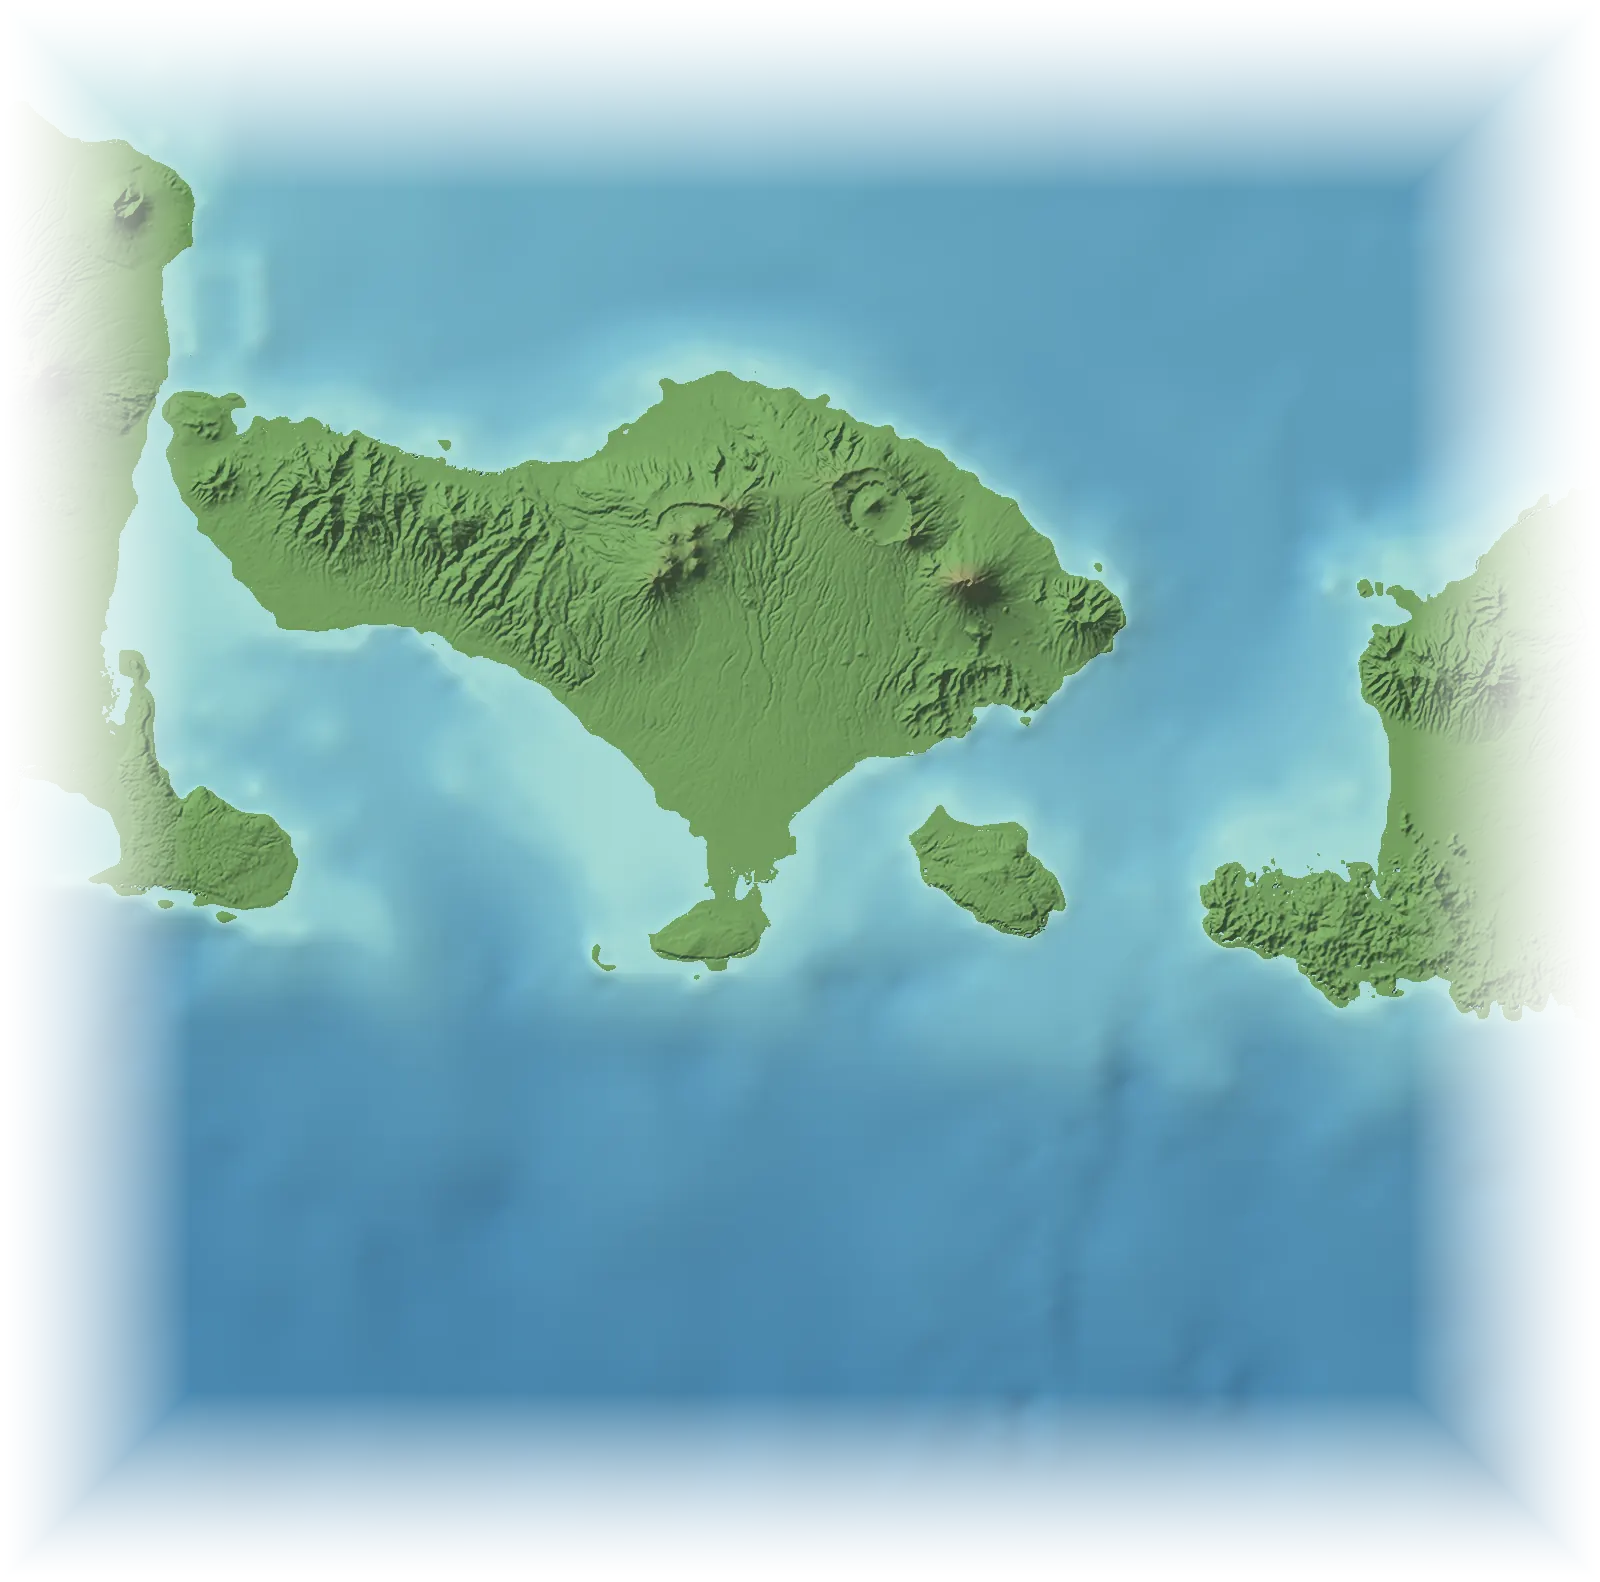
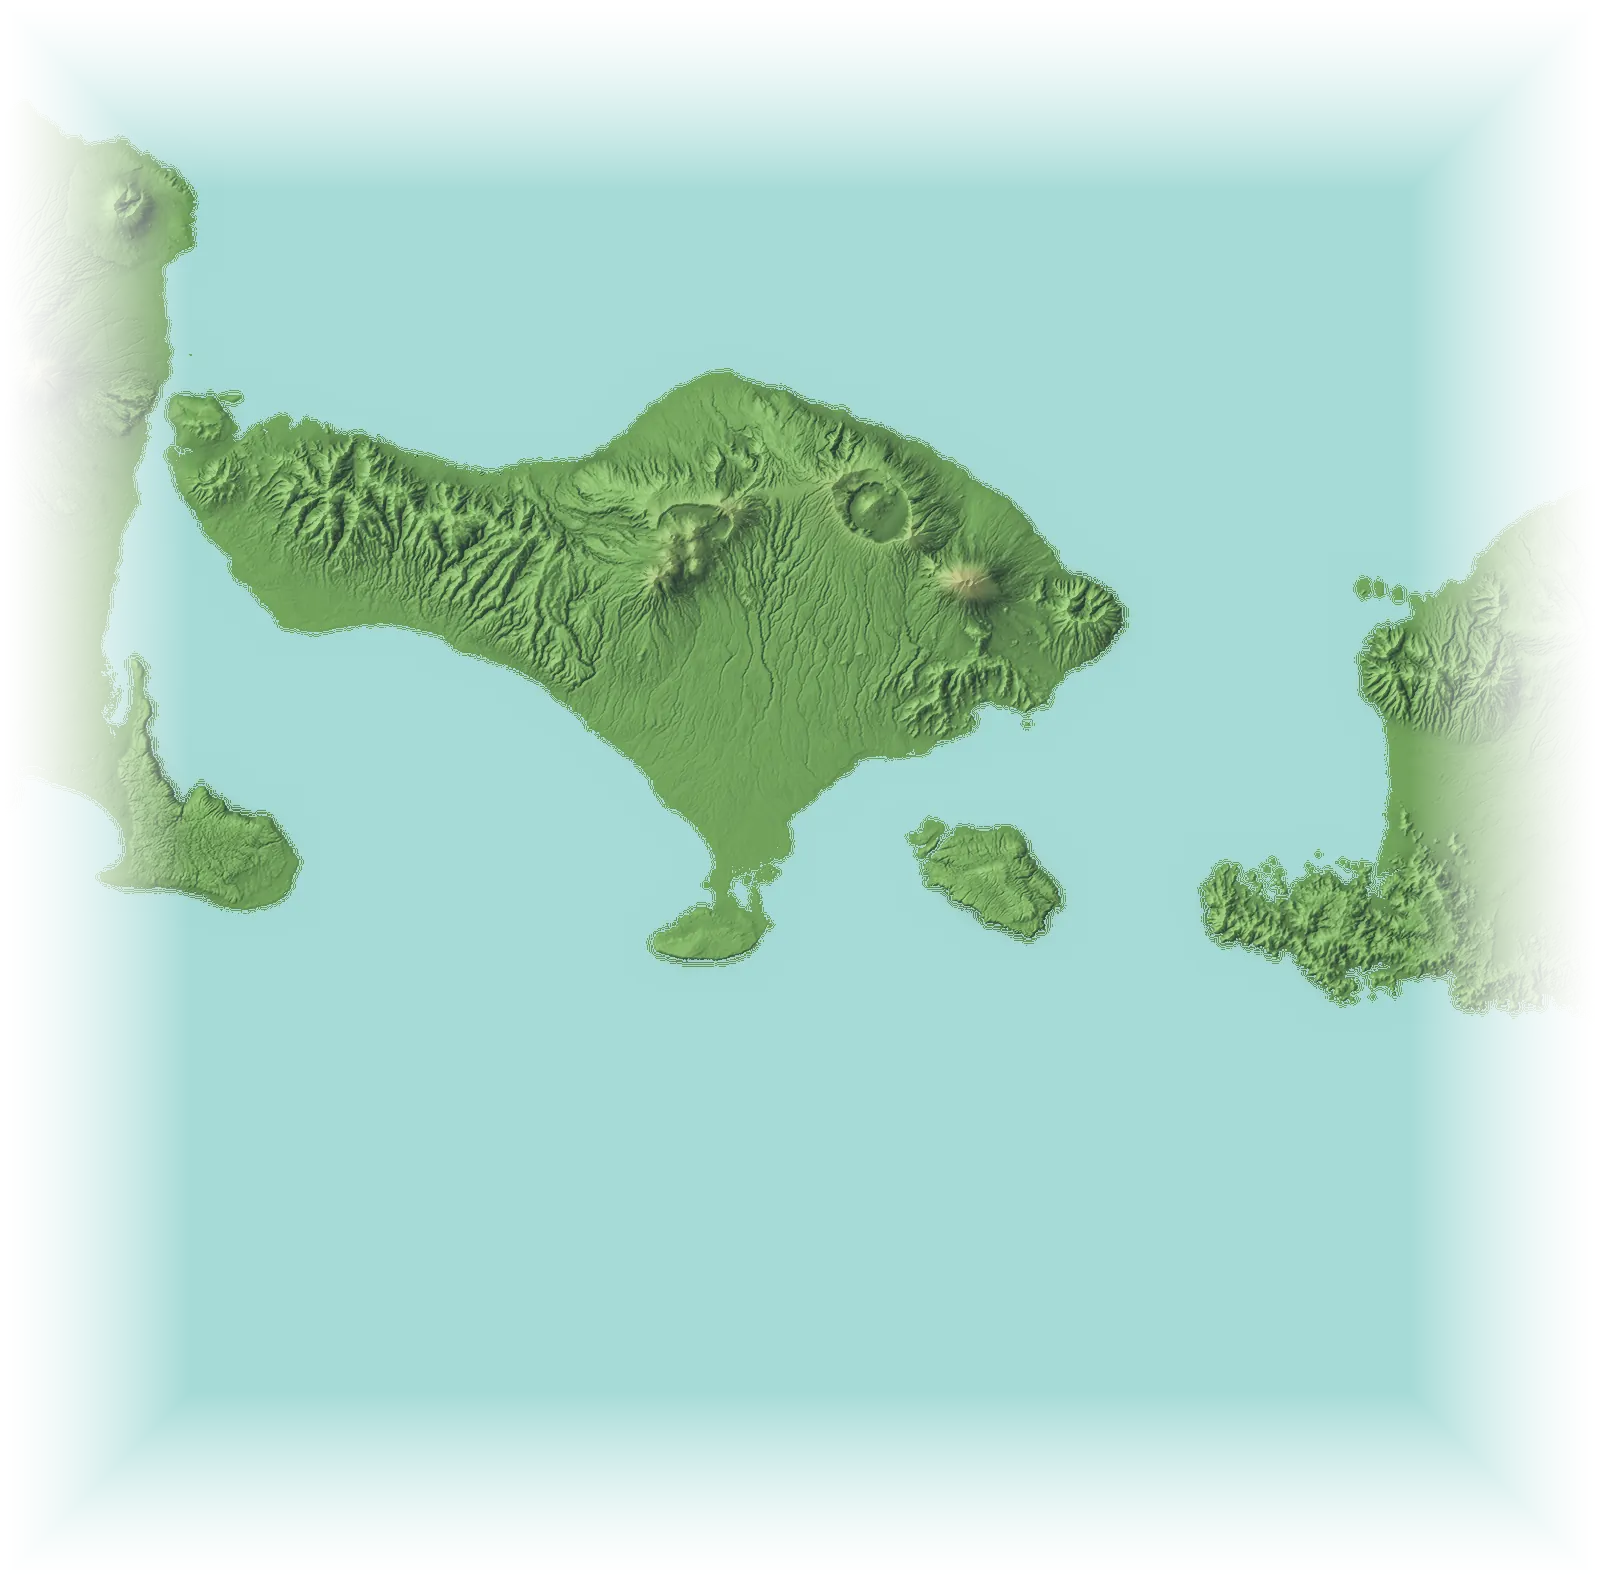
Richer, more natural map: sculpted relief, real clouds, atmosphere
- Relief layers re-lit with a key + fill light, local-relief shading
  (ridges catch light, valleys in soft shadow), warm highlights and
  cool shadows
- Noise-generated cumulus and high wispy clouds, drifting with parallax
  and casting soft shadows on the land
- Sun shimmer on the sea, warm light, haze and vignette
- Tilt-shift blur at the top and bottom when zoomed into a place
- Lakes have soft natural shores instead of outlined ovals
- Caching: html/js/css/json and map data always revalidate, and
  versioned script/style URLs, so phones stop showing old copies

Claude-Session: https://claude.ai/code/session_01KVdNw979WxCLGLb6ytawBs

diff --git a/public/map.js b/public/map.js
@@ -140,17 +140,33 @@ function drawGlyphs(list,lo,hi,mul=1){
 }
 
 /* ---------- clouds ---------- */
-const SPR=[0,1,2].map(i=>{const c=document.createElement('canvas');c.width=c.height=256;const g=c.getContext('2d');seed=31+i*13;
-  for(let n=0;n<14;n++){const x=60+rnd()*136,y=96+rnd()*70,r=26+rnd()*46;const gr=g.createRadialGradient(x,y,0,x,y,r);
-    gr.addColorStop(0,'rgba(255,255,255,.95)');gr.addColorStop(.55,'rgba(255,255,255,.55)');gr.addColorStop(1,'rgba(255,255,255,0)');g.fillStyle=gr;g.beginPath();g.arc(x,y,r,0,7);g.fill()}
-  g.globalCompositeOperation='source-atop';const sh=g.createLinearGradient(0,90,0,200);sh.addColorStop(0,'rgba(0,0,0,0)');sh.addColorStop(1,'rgba(120,140,170,.35)');g.fillStyle=sh;g.fillRect(0,0,256,256);return c});
+function cloudSprite(kind,sd){
+  const N=256,c=document.createElement('canvas');c.width=c.height=N;const g=c.getContext('2d'),im=g.createImageData(N,N),d=im.data;
+  seed=sd;const P=new Float32Array(64*64);for(let i=0;i<P.length;i++)P[i]=rnd();
+  const vn=(x,y)=>{x=((x%64)+64)%64;y=((y%64)+64)%64;const X=Math.floor(x),Y=Math.floor(y),fx=x-X,fy=y-Y,u=fx*fx*(3-2*fx),v=fy*fy*(3-2*fy),X1=(X+1)%64,Y1=(Y+1)%64;
+    return (P[Y*64+X]*(1-u)+P[Y*64+X1]*u)*(1-v)+(P[Y1*64+X]*(1-u)+P[Y1*64+X1]*u)*v};
+  const wisp=kind==='wisp';
+  const ss=(e0,e1,v)=>{const t=Math.max(0,Math.min(1,(v-e0)/(e1-e0)));return t*t*(3-2*t)};
+  for(let j=0;j<N;j++)for(let i=0;i<N;i++){
+    const nx=(i-N/2)/(N/2),ny=(j-N/2)/(N/2)*(wisp?2.2:1.35),r=Math.hypot(nx,ny);if(r>=1)continue;
+    const fall=1-Math.pow(r,wisp?1.3:1.7);
+    // broad shape first, finer billows on top; wisps are noise stretched into long streaks
+    let f=0,a=.5,fr=wisp?3:2.2;for(let o=0;o<5;o++){f+=a*vn(i/N*fr*(wisp?.18:1)+o*7.3,j/N*fr+o*3.1);fr*=2.05;a*=.5}
+    const v=wisp?ss(.32,.95,fall*.55+(f-.5)*2.6)*Math.pow(fall,.7):ss(.28,.72,fall*.95+(f-.5)*1.1);if(v<=0)continue;
+    const top=wisp?1:1-.22*Math.max(0,ny/1.35+.15);           // sunlit tops, soft grey undersides
+    const k=(j*N+i)*4;d[k]=255*top;d[k+1]=255*top;d[k+2]=Math.min(255,266*top);d[k+3]=v*(wisp?160:245)}
+  g.putImageData(im,0,0);
+  const s2=document.createElement('canvas');s2.width=s2.height=N;const h=s2.getContext('2d');h.drawImage(c,0,0);h.globalCompositeOperation='source-in';h.fillStyle='rgb(28,40,58)';h.fillRect(0,0,N,N);
+  c.shadow=s2;return c}
+const WISP=cloudSprite('wisp',12),SPR=[cloudSprite('cum',31),cloudSprite('cum',57),cloudSprite('cum',83),WISP,WISP];
 seed=99;
 const CLOUDS=[];
-for(let i=0;i<80;i++)CLOUDS.push({x:-180+rnd()*360,y:-(-50+rnd()*115),s:4.5+rnd()*6,i:i%3,v:.02+rnd()*.04,g:true});
+for(let i=0;i<42;i++)CLOUDS.push({x:-180+rnd()*360,y:-(-50+rnd()*115),s:7+rnd()*7,i:i%3,v:.02+rnd()*.03,g:true,p:1});
+for(let i=0;i<18;i++)CLOUDS.push({x:-180+rnd()*360,y:-(-45+rnd()*105),s:12+rnd()*9,i:3+i%2,v:.04+rnd()*.04,g:true,p:1.18,wisp:true});
 for(const d of DEST){const b=routeBox(R[d.id]);for(let i=0;i<9;i++){const a=i/9*Math.PI*2+rnd(),rr=b.span*(.6+rnd()*1.1);
-  CLOUDS.push({x:b.cx+Math.cos(a)*rr,y:b.cy+Math.sin(a)*rr*.7,s:b.span*(1.1+rnd()*1.2),i:i%3,v:b.span*.004,d:d.id})}}
+  CLOUDS.push({x:b.cx+Math.cos(a)*rr,y:b.cy+Math.sin(a)*rr*.7,s:b.span*(1.1+rnd()*1.2),i:i%3,v:b.span*.004,d:d.id,p:1})}}
 function cloudAlpha(c){
-  if(c.g)return .22+.3*ramp(V.k,kMin*1.4,10)*(1-ramp(V.k,16,40))-.22*ramp(V.k,16,40);
+  if(c.g)return (c.wisp?.42:.5)*(1-ramp(V.k,14,40));
   const f=fitK(c.d),q=V.k/f;return .9*ramp(q,.05,.16)*(1-ramp(q,.26,.5));
 }
 
@@ -168,6 +184,9 @@ function clampView(){V.k=cl(V.k,kMin,kMax);const hw=W/2/V.k,hh=H/2/V.k;
 const IMG={ocean:null,land1:null,land3:null,crop:{}};let RELIEF={};
 function img(src,cb){const i=new Image();i.decoding='async';i.onload=()=>{cb(i);statKey='';wake()};i.src=src;return i}
 function loadCrop(id){IMG.crop[id]='loading';img(`data/relief-${id}.webp`,i=>IMG.crop[id]=i)}
+const omask=document.createElement('canvas'),mctx=omask.getContext('2d');    // where the sea is (for the shimmer)
+const shim=document.createElement('canvas'),hctx=shim.getContext('2d');
+const dof=document.createElement('canvas'),dctx=dof.getContext('2d');let dofOn=false; // miniature depth of field
 let tNow=0;const stat=document.createElement('canvas'),sctx=stat.getContext('2d');let statKey='';
 let landA=null,landB=null;const detailPath={};
 const prog={};let hits=[],starHits=[];
@@ -201,10 +220,21 @@ function drawStatic(){
   c.setTransform(...T);
   const lakes=[...LAKES.map(l=>l),...DEST.flatMap(d=>(R[d.id].lakes||[]).map(([la,lo,rx,ry,rot])=>[lo,la,rx,ry,rot||0,R[d.id].lakeColor]))];
   for(const [lo,la,rx,ry,rot,lc] of lakes){if(lo+rx<vx0||lo-rx>vx1||-la+ry<vy0||-la-ry>vy1)continue;if(rx*V.k<1.5)continue;
-    c.save();c.translate(lo,-la);c.rotate((rot||0)*Math.PI/180);c.fillStyle=lc||'#8cc6d0';c.strokeStyle='rgba(236,250,244,.8)';c.lineWidth=2/V.k;c.beginPath();c.ellipse(0,0,rx,ry,0,0,7);c.fill();c.stroke();c.restore()}
-  if(V.k>25)for(const d of DEST)for(const rv of R[d.id].rivers||[]){c.strokeStyle='#8cc6d0';c.lineWidth=Math.min(4,Math.max(1.2,V.k/150))/V.k;c.lineCap='round';c.beginPath();rv.forEach(([la,lo],i)=>i?c.lineTo(lo,-la):c.moveTo(lo,-la));c.stroke()}
+    c.save();c.translate(lo,-la);c.rotate((rot||0)*Math.PI/180);c.scale(rx,ry);
+    const lg=c.createRadialGradient(0,0,0,0,0,1);const col=lc||'#4f98ad';lg.addColorStop(0,col);lg.addColorStop(.82,col);lg.addColorStop(1,'rgba(120,170,170,0)'); // soft natural shoreline
+    c.globalAlpha=.88;c.fillStyle=lg;c.beginPath();c.arc(0,0,1,0,7);c.fill();c.globalAlpha=1;c.restore()}
+  if(V.k>25)for(const d of DEST)for(const rv of R[d.id].rivers||[]){c.strokeStyle='rgba(92,150,170,.55)';c.lineWidth=Math.min(4,Math.max(1.2,V.k/150))/V.k;c.lineCap='round';c.beginPath();rv.forEach(([la,lo],i)=>i?c.lineTo(lo,-la):c.moveTo(lo,-la));c.stroke()}
   // coastline
   c.strokeStyle='rgba(70,105,110,.45)';c.lineWidth=.8/V.k;c.stroke(path);if(coastal)c.stroke(extra);
+  // sea mask for the shimmer (land cut out)
+  omask.width=W;omask.height=H;mctx.setTransform(V.k,0,0,V.k,W/2-V.x*V.k,H/2-V.y*V.k);mctx.fillStyle='#000';mctx.fill(clipPath);
+  // depth of field: when you are inside a place, the top and bottom of the view soften like a tilt-shift photo
+  let near=0;for(const d of DEST)near=Math.max(near,ramp(V.k/fitK(d.id),.45,.8)*onScreen(d.id));
+  dofOn=near>.05&&!ptrs.size&&!anim&&!reduce;
+  if(dofOn){dof.width=W*DPR;dof.height=H*DPR;dctx.setTransform(1,0,0,1,0,0);dctx.filter=`blur(${(W<760?2.2:3)*DPR}px)`;dctx.drawImage(stat,0,0);dctx.filter='none';
+    dctx.globalCompositeOperation='destination-in';const gm=dctx.createLinearGradient(0,0,0,H*DPR);
+    gm.addColorStop(0,`rgba(0,0,0,${near})`);gm.addColorStop(.26,'rgba(0,0,0,0)');gm.addColorStop(.74,'rgba(0,0,0,0)');gm.addColorStop(1,`rgba(0,0,0,${near})`);
+    dctx.fillStyle=gm;dctx.fillRect(0,0,W*DPR,H*DPR);dctx.globalCompositeOperation='source-over'}
   // ocean names
   c.setTransform(DPR,0,0,DPR,0,0);
   if(V.k<16){c.font='italic 300 15px Fraunces, Georgia, serif';c.fillStyle='rgba(38,82,96,.5)';c.textAlign='center';
@@ -219,7 +249,7 @@ let wavePat=null;const waveTile=(()=>{const c=document.createElement('canvas');c
   for(const [x,y] of [[14,20],[60,42],[30,74],[78,82]]){g.beginPath();g.arc(x,y,7,Math.PI*1.15,Math.PI*1.85);g.arc(x+12,y,7,Math.PI*1.15,Math.PI*1.85);g.stroke()}return c})();
 
 function render(){
-  const key=[V.x.toFixed(5),V.y.toFixed(5),V.k.toFixed(4),W,H,landB?1:0,Object.keys(land.detail).length].join('|');
+  const key=[V.x.toFixed(5),V.y.toFixed(5),V.k.toFixed(4),W,H,landB?1:0,Object.keys(land.detail).length,ptrs.size?1:0,anim?1:0].join('|');
   if(key!==statKey){drawStatic();statKey=key}
   ctx.setTransform(1,0,0,1,0,0);ctx.clearRect(0,0,cv.width,cv.height);ctx.drawImage(stat,0,0);
   ctx.setTransform(DPR,0,0,DPR,0,0);
@@ -227,11 +257,27 @@ function render(){
 
   for(const d of DEST){const b=routeBox(R[d.id]),m=b.span*1.4;if(V.x<b.x0-m-W/V.k||V.x>b.x1+m+W/V.k||V.y<b.y0-m-H/V.k||V.y>b.y1+m+H/V.k)continue;
   }
-  // clouds
-  for(const c of CLOUDS){const a=cloudAlpha(c);if(a<.02)continue;const s=c.s*V.k;if(s<8||s>W*3)continue;
-    const x=sx(c.x+(reduce?0:tNow*c.v*.001)),y=sy(c.y);if(x<-s||x>W+s||y<-s||y>H+s)continue;
-    ctx.globalAlpha=a;ctx.drawImage(SPR[c.i],x-s/2,y-s/2,s,s)}
+  if(dofOn)ctx.drawImage(dof,0,0,W,H);
+  // sun shimmer drifting across the water (masked to the sea)
+  if(!reduce){hctx.setTransform(1,0,0,1,0,0);shim.width=Math.ceil(W/2);shim.height=Math.ceil(H/2);
+    const gx=shim.width*(.5+.35*Math.cos(tNow*.00007)),gy=shim.height*(.35+.2*Math.sin(tNow*.00005));
+    const gl=hctx.createRadialGradient(gx,gy,0,gx,gy,shim.width*.55);gl.addColorStop(0,'rgba(255,248,228,.55)');gl.addColorStop(1,'rgba(255,248,228,0)');
+    hctx.fillStyle=gl;hctx.fillRect(0,0,shim.width,shim.height);hctx.globalCompositeOperation='destination-out';hctx.drawImage(omask,0,0,shim.width,shim.height);hctx.globalCompositeOperation='source-over';
+    ctx.globalCompositeOperation='screen';ctx.globalAlpha=.22;ctx.drawImage(shim,0,0,W,H);ctx.globalAlpha=1;ctx.globalCompositeOperation='source-over'}
+  // clouds: soft shadows on the land first, then the clouds; high wisps drift with more parallax
+  const vis=[];
+  for(const c of CLOUDS){const a=cloudAlpha(c);if(a<.02)continue;const s=c.s*V.k*(c.p>1?1.08:1);if(s<36||s>W*3)continue;
+    const x=W/2+(c.x+(reduce?0:tNow*c.v*.001)-V.x)*V.k*c.p,y=H/2+(c.y-V.y)*V.k*c.p;if(x<-s||x>W+s||y<-s||y>H+s)continue;vis.push([c,a,s,x,y])}
+  for(const [c,a,s,x,y] of vis){const o=s*(c.wisp?.16:.1);ctx.globalAlpha=a*(c.wisp?.12:.2);ctx.drawImage(SPR[c.i].shadow,x-s/2+o*.6,y-s/2+o,s,s)}
+  for(const [c,a,s,x,y] of vis){ctx.globalAlpha=a;ctx.drawImage(SPR[c.i],x-s/2,y-s/2,s,s)}
   ctx.globalAlpha=1;
+  // atmosphere: warm light from the top-left, a soft haze and vignette at the edges
+  ctx.globalCompositeOperation='soft-light';
+  const sun=ctx.createRadialGradient(W*.12,-H*.15,0,W*.12,-H*.15,Math.max(W,H)*1.1);sun.addColorStop(0,'rgba(255,214,160,.55)');sun.addColorStop(1,'rgba(255,214,160,0)');ctx.fillStyle=sun;ctx.fillRect(0,0,W,H);
+  ctx.globalCompositeOperation='source-over';
+  const hz=ctx.createLinearGradient(0,0,0,H);hz.addColorStop(0,'rgba(214,232,242,.28)');hz.addColorStop(.22,'rgba(214,232,242,0)');hz.addColorStop(.85,'rgba(214,232,242,0)');hz.addColorStop(1,'rgba(214,232,242,.18)');
+  ctx.fillStyle=hz;ctx.fillRect(0,0,W,H);
+  const vg0=ctx.createRadialGradient(W/2,H*.55,Math.min(W,H)*.45,W/2,H*.55,Math.max(W,H)*.85);vg0.addColorStop(0,'rgba(16,34,52,0)');vg0.addColorStop(1,'rgba(16,34,52,.22)');ctx.fillStyle=vg0;ctx.fillRect(0,0,W,H);
   // dusk, so the journey's stars can shine
   let dusk=0;for(const d of DEST)dusk=Math.max(dusk,starAlpha(d.id)*onScreen(d.id));
   if(dusk>0){ctx.fillStyle=`rgba(18,28,58,${.14*dusk})`;ctx.fillRect(0,0,W,H);

diff --git a/public/routes.js b/public/routes.js
@@ -4,7 +4,7 @@
    lakes: [lat, lng, rx(deg), ry(deg), rotation(deg)]   rivers: [[lat,lng],...]   patches: [kind, lat, lng, r(deg)] */
 window.ROUTES = {
  ladakh:{loop:true,stops:[['Leh',34.164,77.585,'Days 1–2','Arrive, acclimatise, Shanti Stupa','arrive'],['Khardung La',34.278,77.604,'Day 3','Over the 5,359 m pass','stop'],['Nubra Valley',34.58,77.5,'Days 3–4','Dunes and Diskit monastery','stop'],['Turtuk',34.847,76.826,'Day 5','Apricot village by the border','side'],['Pangong Tso',33.96,78.42,'Days 6–7','Sunrise on the lake','stop'],['Hanle',32.779,78.973,'Day 8','Stargazing at the observatory','stop'],['Tso Moriri',32.92,78.30,'Day 9','The quiet lake, then back to Leh','stop']],
-  look:{mtn:1,snow:.6,dune:.35,tree:0,rock:.8},lakeColor:'#4fbfc6',
+  look:{mtn:1,snow:.6,dune:.35,tree:0,rock:.8},lakeColor:'#2f93a8',
   lakes:[[33.83,78.62,.4,.065,-38],[32.9,78.31,.07,.12,10],[33.1,78.0,.05,.04,0]],
   rivers:[[[32.6,79.3],[33.0,78.6],[33.55,77.95],[34.0,77.75],[34.16,77.58],[34.4,77.0],[34.75,76.3]],[[34.05,78.2],[34.3,77.9],[34.55,77.6],[34.75,77.15],[34.9,76.7]]],
   patches:[['dune',34.57,77.45,.22],['dune',34.64,77.66,.14],['snow',34.9,77.9,.3],['snow',33.3,77.4,.25]]},

diff --git a/public/index.html b/public/index.html
@@ -7,7 +7,7 @@
 <meta name="description" content="Zoom out to zoom in. Pick an experience, see it in photos and video, and go where you wanna go.">
 <link rel="preconnect" href="https://fonts.googleapis.com">
 <link href="https://fonts.googleapis.com/css2?family=Fraunces:opsz,wght@9..144,300;9..144,600&family=Inter:wght@400;500;600&display=swap" rel="stylesheet">
-<link rel="stylesheet" href="styles.css">
+<link rel="stylesheet" href="styles.css?v=11">
 </head>
 <body>
 
@@ -71,11 +71,11 @@
   <div class="sheet" id="sheet" role="dialog" aria-modal="true"></div>
 </aside>
 
-<script src="facts.js"></script>
-<script src="media/photos.js"></script>
-<script src="offers.js"></script>
-<script src="routes.js"></script>
-<script src="app.js"></script>
-<script src="map.js"></script>
+<script src="facts.js?v=11"></script>
+<script src="media/photos.js?v=11"></script>
+<script src="offers.js?v=11"></script>
+<script src="routes.js?v=11"></script>
+<script src="app.js?v=11"></script>
+<script src="map.js?v=11"></script>
 </body>
 </html>

diff --git a/tools/build_relief.py b/tools/build_relief.py
@@ -57,6 +57,15 @@ def noise(lon, lat):
     px = (lon + 180) / 360 * 2047; py = (90 - lat) / 180 * 1023
     return sample(_NOISE, px, py)
 
+def smooth(a, r):  # three box blurs ~ a gaussian, edge-padded
+    def box(x, r, axis):
+        pad = [(0, 0)] * x.ndim; pad[axis] = (r + 1, r); x = np.pad(x, pad, mode='edge')
+        cs = np.cumsum(x, axis=axis, dtype=np.float64)
+        hi = np.take(cs, range(2 * r + 1, x.shape[axis]), axis=axis); lo = np.take(cs, range(0, x.shape[axis] - 2 * r - 1), axis=axis)
+        return ((hi - lo) / (2 * r + 1)).astype(np.float32)
+    for _ in range(3): a = box(box(a, r, 0), r, 1)
+    return a
+
 def hexrgb(h): h = h.lstrip('#'); return np.array([int(h[i:i + 2], 16) for i in (0, 2, 4)], np.float32)
 def sstep(a, b, v): t = np.clip((v - a) / (b - a), 0, 1); return t * t * (3 - 2 * t)
 def mix(c, col, w): return c * (1 - w[..., None]) + col * w[..., None]
@@ -104,21 +113,30 @@ def colourise(elev, lon, lat, exag, palette=None, patches=()):
     dx = dlon * 111320 * np.cos(lat_r); dy = dlat * 110540
     gy, gx = np.gradient(elev * exag)
     sx_ = gx / np.maximum(dx, 1); sy_ = -gy / dy
-    az, alt = math.radians(315), math.radians(42)
     nx, ny, nz = -sx_, -sy_, np.ones_like(sx_)
     nl = np.sqrt(nx * nx + ny * ny + nz * nz)
-    lx_, ly_, lz_ = math.cos(alt) * math.sin(az), math.cos(alt) * math.cos(az), math.sin(alt)
-    shade = np.clip((nx * lx_ + ny * ly_ + nz * lz_) / nl, 0, 1)
-    flat = math.sin(alt)
-    k = (shade - flat)  # 0 on flat ground, + sunlit, - shadow
-    kk = np.clip(k, -1, 1); c = c * (1 + kk[..., None] * np.where(land, np.where(kk > 0, .5, .85), .3)[..., None])
-    c = mix(c, hexrgb('#4d5d78'), np.clip(-k, 0, 1) * .22)
+    def light(az_deg, alt_deg):  # 0 on flat ground, + sunlit, - shadow
+        az, alt = math.radians(az_deg), math.radians(alt_deg)
+        lx_, ly_, lz_ = math.cos(alt) * math.sin(az), math.cos(alt) * math.cos(az), math.sin(alt)
+        return np.clip((nx * lx_ + ny * ly_ + nz * lz_) / nl, 0, 1) - math.sin(alt)
+    # key light from the north-west plus a softer fill from the west: sculpted, not flat
+    k = .72 * light(315, 38) + .28 * light(255, 28)
+    # local relief: ridges catch light, valleys sit in soft shadow (a cheap ambient occlusion)
+    r = max(3, int(min(H, W) / 160))
+    blur = smooth(elev.astype(np.float32), r)
+    lr = elev - blur; sc = np.percentile(np.abs(lr[land]), 92) + 1 if land.any() else 1
+    k = k + .32 * np.tanh(lr / sc)
+    kk = np.clip(k, -1, 1)
+    c = c * (1 + kk[..., None] * np.where(land, np.where(kk > 0, .45, .8), .3)[..., None])
+    c = mix(c, hexrgb('#fff0d2'), np.clip(kk, 0, 1) * np.where(land, .28, 0))        # warm light
+    c = mix(c, hexrgb('#44557a'), np.clip(-kk, 0, 1) * np.where(land, .3, .1))       # cool shade
+    g = c.mean(axis=2, keepdims=True); c = g + (c - g) * 1.12                          # a touch richer
     # sea floor: turquoise shelves, deep blue ocean
     d = np.clip(-elev, 0, None)
     sea = np.broadcast_to(hexrgb('#a6dbd6'), c.shape).copy()
     for lim, col in ((60, '#93cfd2'), (300, '#7cbccb'), (2000, '#5f9fbd'), (5000, '#4785ad')):
         sea = mix(sea, hexrgb(col), sstep(0, lim, d))
-    seac = sea * (1 + np.clip(k, -1, 1)[..., None] * .25)
+    seac = sea * (1 + kk[..., None] * .25)
     out = np.where(land[..., None], c, seac)
     return np.clip(out, 0, 255).astype(np.uint8), land
 

diff --git a/CLAUDE.md b/CLAUDE.md
@@ -28,4 +28,8 @@ Small fixes (typos, one-line tweaks) can be batched into the next deploy.
   Zooming into a place: clouds, then its terrain, then the route as a constellation of stars. A card offers "Unbucket this for me" / "Explore".
 - `public/offers.js`: 2-3 offerings per destination, shown on the destination page and in the booking form.
 - Destination pages are a full-screen overlay routed by hash (`#ladakh`).
+- Map layering (map.js render): relief layers, noise-generated clouds (cumulus + high wisps with parallax) with soft shadows, sun shimmer on the sea,
+  warm light / haze / vignette, tilt-shift blur at top and bottom when zoomed into a place. Lakes are soft-edged, not outlined.
+- Caching: firebase.json sends `no-cache` for html/js/css/json and `data/**` so phones always revalidate. Bump the `?v=` on script/style tags in
+  index.html when shipping big changes (old copies were cached for an hour before this rule).
 - Booking form is a preview: it does not send or store anything yet (no backend chosen).
